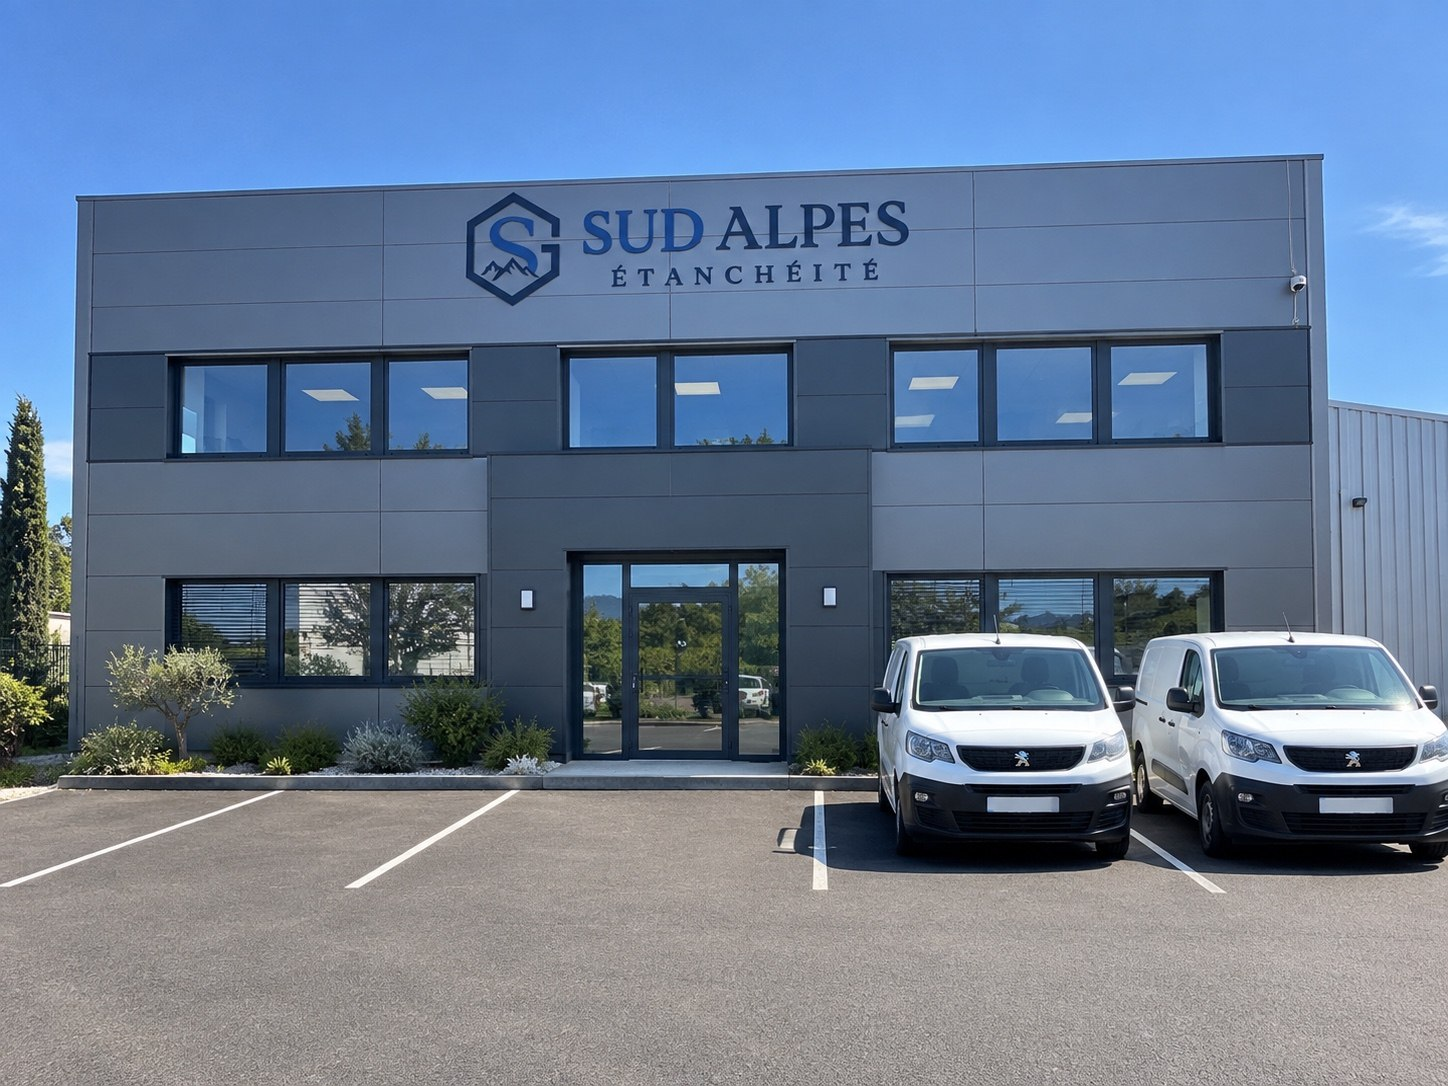
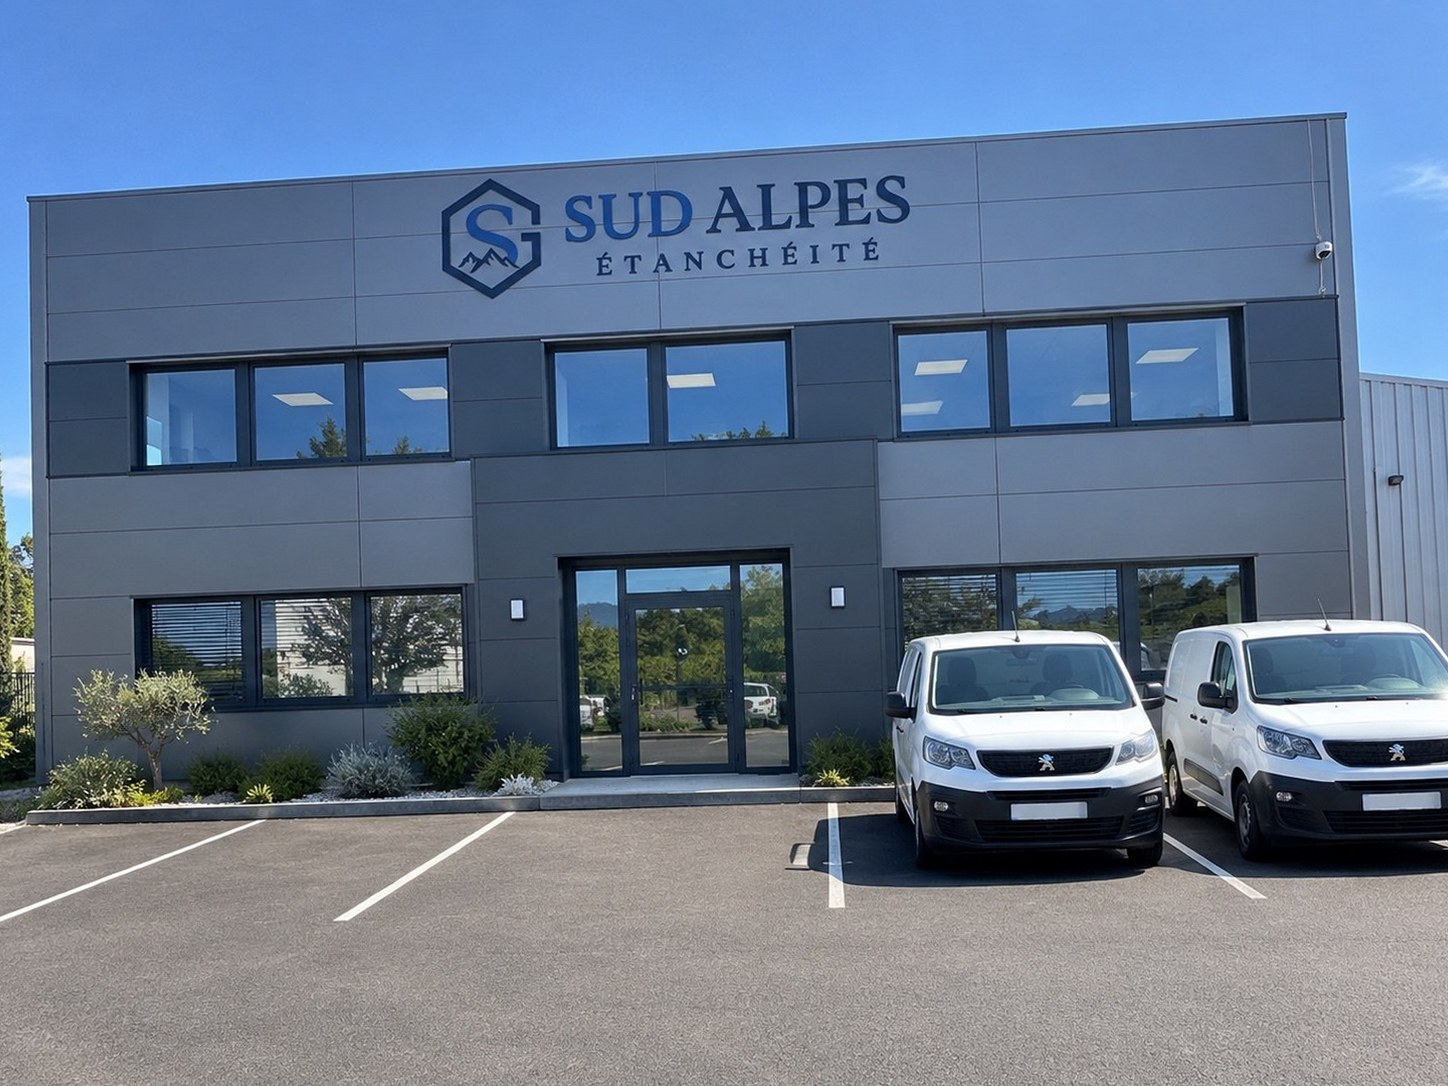
Header toujours bleu + redresse la photo du bâtiment
La barre de navigation est désormais bleue dès l'arrivée sur le
site, sans attendre un scroll. La photo du bâtiment est redressée
(~1.7°) pour une ligne de toiture bien horizontale.

diff --git a/assets/css/style.css b/assets/css/style.css
@@ -177,13 +177,12 @@ h2.section-title {
   left: 0;
   right: 0;
   z-index: 100;
-  background: rgba(20,35,59,0.0);
-  transition: background var(--transition), box-shadow var(--transition), backdrop-filter var(--transition);
+  background: rgba(20,35,59,0.92);
+  backdrop-filter: saturate(140%) blur(10px);
+  transition: box-shadow var(--transition);
 }
 
 .site-header.scrolled {
-  background: rgba(20,35,59,0.92);
-  backdrop-filter: saturate(140%) blur(10px);
   box-shadow: 0 1px 0 rgba(255,255,255,0.06);
 }
 
